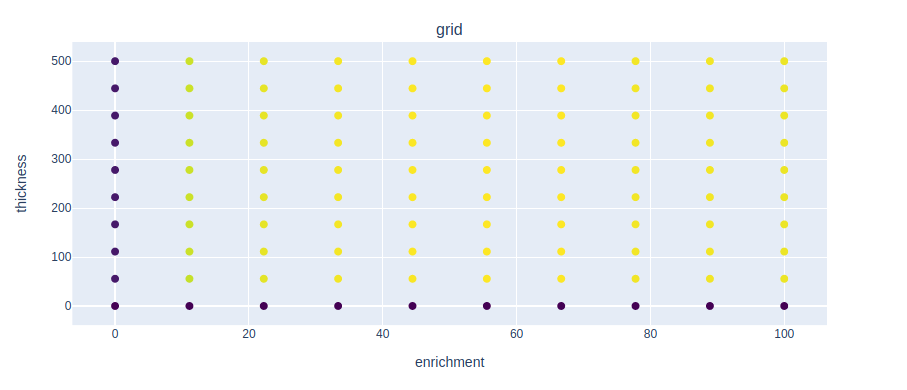
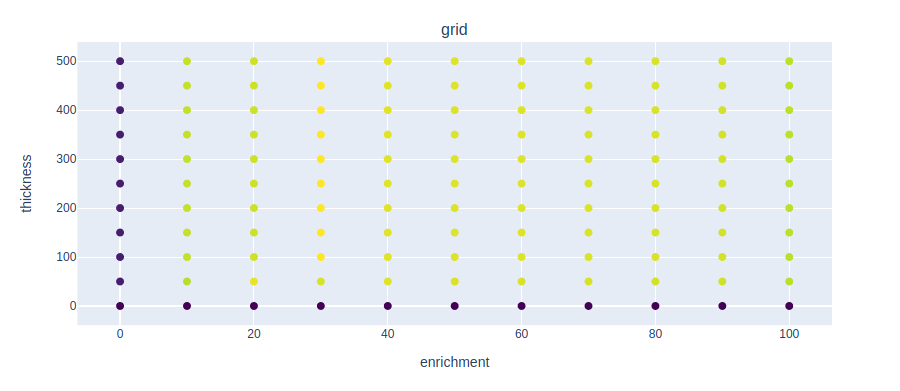
updated task 8

diff --git a/tasks/task_8/README.md b/tasks/task_8/README.md
@@ -32,13 +32,13 @@ As shown, the simulations have been performed randomly across the parameter spac
 
 The main advantage of random sampling is that it is an 'unbiased' sampling technique, meaning simulations are performed across the entire parameter space at the same rate. This means that all simulations contribute to the overall data trend and additional simulations can be easily performed to increase accuracy.
 
-However, random sampling is an inefficient sampling technique. As you can see, some points on the graph are very close together, meaning some simulations performed had very similar input parameters. This is inefficient because some simulations, therefore, provide little additional information about the overall trend, meaning the same results could have been obtained from a smaller number of simulations.
+However, random sampling is an inefficient sampling technique as it leads to point clusters and voids across the parameter space. Some simulations are performed with very similar input parameters,but some areas of parameter space are sparsely sampled. This is inefficient because some simulations provide little additional information about the overall trend and their computational time would be better spent sampling sparsely-sampled areas.
 
 Overall, random sampling is a simple technique for performing unbiased simulations over a parameter space, however, its poor spatial distribution of sample points makes it a highly inefficient technique.
 
 # Grid Sampling
 
-Another sampling technique is 'grid sampling', where samples are taken at regular grid intervals across the parameter space, as shown below. This is an example of 'biased sampling' as the samples are performed in order according to the grid.
+Another sampling technique is 'grid sampling', where samples are taken at regular grid intervals across the parameter space, as shown below. This is an example of 'biased sampling' as the samples are performed in order according to the grid. An example of this is shown below.
 
 <p align="center"><img src="images/grid_sampling.gif" height="250"></p>
 
@@ -48,38 +48,52 @@ Run the ```2_simulate_with_grid_sample.py``` script with the -n flag to specify 
 
 <p align="center"><img src="images/plot_grid_sampling.png" height="400"></p>
 
-As shown, grid sampling has a better spatial distribution of sample points than random sampling. Grid sampling maximises the spatial distribution of sample points across a parameter space and, therefore, maximises the amount of useful information obtained from each simulation. As a result, grid sampling is a highly efficient sampling technique for covering a parameter space.
+As shown, grid sampling has a better spatial distribution of sample points than random sampling. 
 
-However, as simulations are performed in order according to the defined grid, they are biased towards the first parameter values. For example, ```2_simulate_with_grid_sample.py``` performs simulations with enrichment = 0 for all blanket thicknesses before enrichment is changed. This means that all simulations across the grid must be performed before a data trend across the entire parameter space is obtained. This is the major disadvantage of grid sampling because more simulations may be performed than are necessary, because the data trend cannot be seen until the end, and it is difficult to add sample points to the existing data set. On the other hand, random sampling is unbiased meaning the data trend across the parameter space can be observed with a small number of simulations and additional data points can be added easily.
+Grid sampling maximises the spatial distribution of sample points across a parameter space by avoiding point clustering and, therefore, maximises the amount of useful information obtained from each simulation. As a result, grid sampling is a highly efficient sampling technique for covering a parameter space.
 
-Overall, grid sampling provides a much better spatial distribution of sample points across the parameter space than random sampling and is, therefore, a more efficient sampling technique. However, its bias towards initial parameter values makes it unsuitable for most applications. Instead, we tend to use 'quasi-random' sampling techniques which combine the spatial efficiency and randomness.
+However, as simulations are performed in order according to the defined grid, they are biased towards the first parameter values in the grid. For example, ```2_simulate_with_grid_sample.py``` performs simulations with enrichment = 0 for all blanket thicknesses before enrichment is changed. This means that all simulations across the grid must be performed before a data trend across the entire parameter space can be observed.
+This is the main disadvantage of grid sampling as more simulations than are necessary may be performed, and it is difficult to efficiently add sample points to the existing data without performing a complete new grid search 'in-between' the existing data points. On the other hand, random sampling is unbiased meaning the data trend across the parameter space can be observed with a small number of simulations and additional sample points can be added easily.
+
+Overall, grid sampling is a more efficient sampling technique than random sampling, but its bias towards initial parameter values makes it unsuitable for most applications. Instead, we tend to use more advanced 'quasi-random' or 'adaptive' techniques to improve sampling efficiency.
 
 # Halton Sampling
 
-Halton sampling is a quasi-random sampling technique based on the [halton sequence](link). Using a [quasi-random number sequence](link) based on coprime numbers, halton sampling allows a parameter space to be sampled both efficiently and with a element of random nature. Like random sampling, halton sampling allows data trends across the parameter space to be observed with a small number of samples, but distributes the sample points more efficiently throughout the parameter space.
+Halton sampling is a quasi-random sampling technique based on the [halton sequence](link). Using a [quasi-random number sequence](link) based on coprime numbers, halton sampling allows an entire parameter space to be sampled both efficiently and with a element of random nature. Like random sampling, halton sampling allows data trends across the parameter space to be observed with a small number of samples, but distributes the sample points more efficiently throughout the parameter space.
 
 Open the ```3_simulate_with_halton_sample.py``` script and try to understand how the halton sequence is used to generate inputs for the simulation.
 
-Run this script and plot the results. The graph should look similar to the plot below.
+Run this script and plot the results. The graph produced should look similar to the plot below.
 
 <p align="center"><img src="images/plot_halton_sampling.png" height="400"></p>
 
 As you can see, the sample points have a much better spatial distribution across the parameter space than random sampling.
 
-This means that each simulation extracts a large amount of information about the overall data trend 
-Simulation points are not close together so they are not wasted
-Efficient sampling technique for surveying an entire parameter space.
+The main advantage of halton sampling is that it allows the efficient sampling of an entire parameter space. Sample points are not clustered meaning each simulation provides a large amount of additional information about the overall data trend, and its quasi-random nature means additional samples can be added efficiently.
+However, the main disadvantage of halton sampling is that it still surveys the entire parameter space of interest. This can lead to the excessive sampling of 'flat' regions of the parameter space, i.e. areas where there is little variation in the overall trend, resulting in inefficiency. 
 
-The disadvantage of halton sampling is that it still surveys the entire parameter space when we only really want to survey the part of the parameter space where the important data trend is. 
-This is where we could use optimised sampling or adaptive sampling to further increase the efficiency of simulations.
+Overall, halton sampling is better than random and grid sampling as it provides good spatial distribution and allows more samples to be added easily and efficiently. Ideally, however, we want to avoid over-sampling flat regions of the parameter space to further improve efficiency and reduce the number of simulations required. This is where 'adaptive' sampling is advantageous.
+
+# Adaptive Sampling
+
+Adaptive sampling is a sampling technique which uses data fitting to decide where in the parameter space to sample next. By fitting the data from samples that have already been taken, the overall data trend across the parameter space can be roughly predicted and an informed choice on where to sample the parameter space next can be made. Regions in the parameter space where the data trend is relatively flat do not have to be sampled as densely as rapidly changing regions. By allowing sample points to be chosen based on the data trend, computational time can be focused on the most important parts of the data trend.
+
+Open the ```4_simulate_with_adaptive_sample.py``` script and try to understand how 'adaptive' python module is used to adaptively sample the parameter space. Simulations begin by sampling the limits of the parameter space (i.e. (enrichment, thickness) = (0, 1), (100, 1), (0, 500), (100, 500)) and then fitting these points to predict where TBR is varying most rapidly across the parameter space. A sample is then taken at this point and the process repeated. There are many ways to fit existing data points during adaptive sampling, however, this particular example uses [gaussian process regression](link). 
+
+Run this script and plot the results. The graph produced should look similar to the plot below.
+
+<p align="center"><img src="images/plot_adaptive_sampling.png" height="400"></p>
+
+As mentioned, the most important parts of a data trend are (usually) the regions where the data is changing as a function of parameter values. In our example, these are the regions where TBR is changing as a function of enrichment and thickness. I.e. we do not want to excessively sample regions where TBR changes negligibly as a function of enrichment and thickness.
+As shown, the parameter space is densely sampled in regions where TBR is changing most rapidly, and sparsely sampled in regions where TBR is changing negligibly.
+
+The main advantage of adaptive sampling is that it is the most efficient technique for sampling a parameter space with an unknown distribution. By iteratively fitting the data and performing additional simulations we can determine an accurate distribution across the parameter space with fewer simulations than any other sampling technique.
+It is not a perfect solution, however, because over-sampling could still take place if we don't specify when to stop sampling. I.e. we would calculate the data fit and stop when we reach an acceptable uncertainty. Also could miss areas which have less prominent trends? I.e we don't get the whole picture across the whole parameter space.
+
+Overall, adaptive sampling allows computational time to be focused on the most important parts of a distribution and is a highly efficient way of sampling a parameter space and, therefore, performing simulations.
 
 
-
-
-
-
-
-Maybe use some of these
+Possible Learning Outcomes:
 - Some candiate breeder materials can meet the TBR requirment with a thinner blanket.
 - Increasing the thickness of blanket or lthium 6 enrichment tend to increase the TBR but not for all materials.
 - Random slection of parameters is not an efficient way of covering the search space or finding the optimal.
